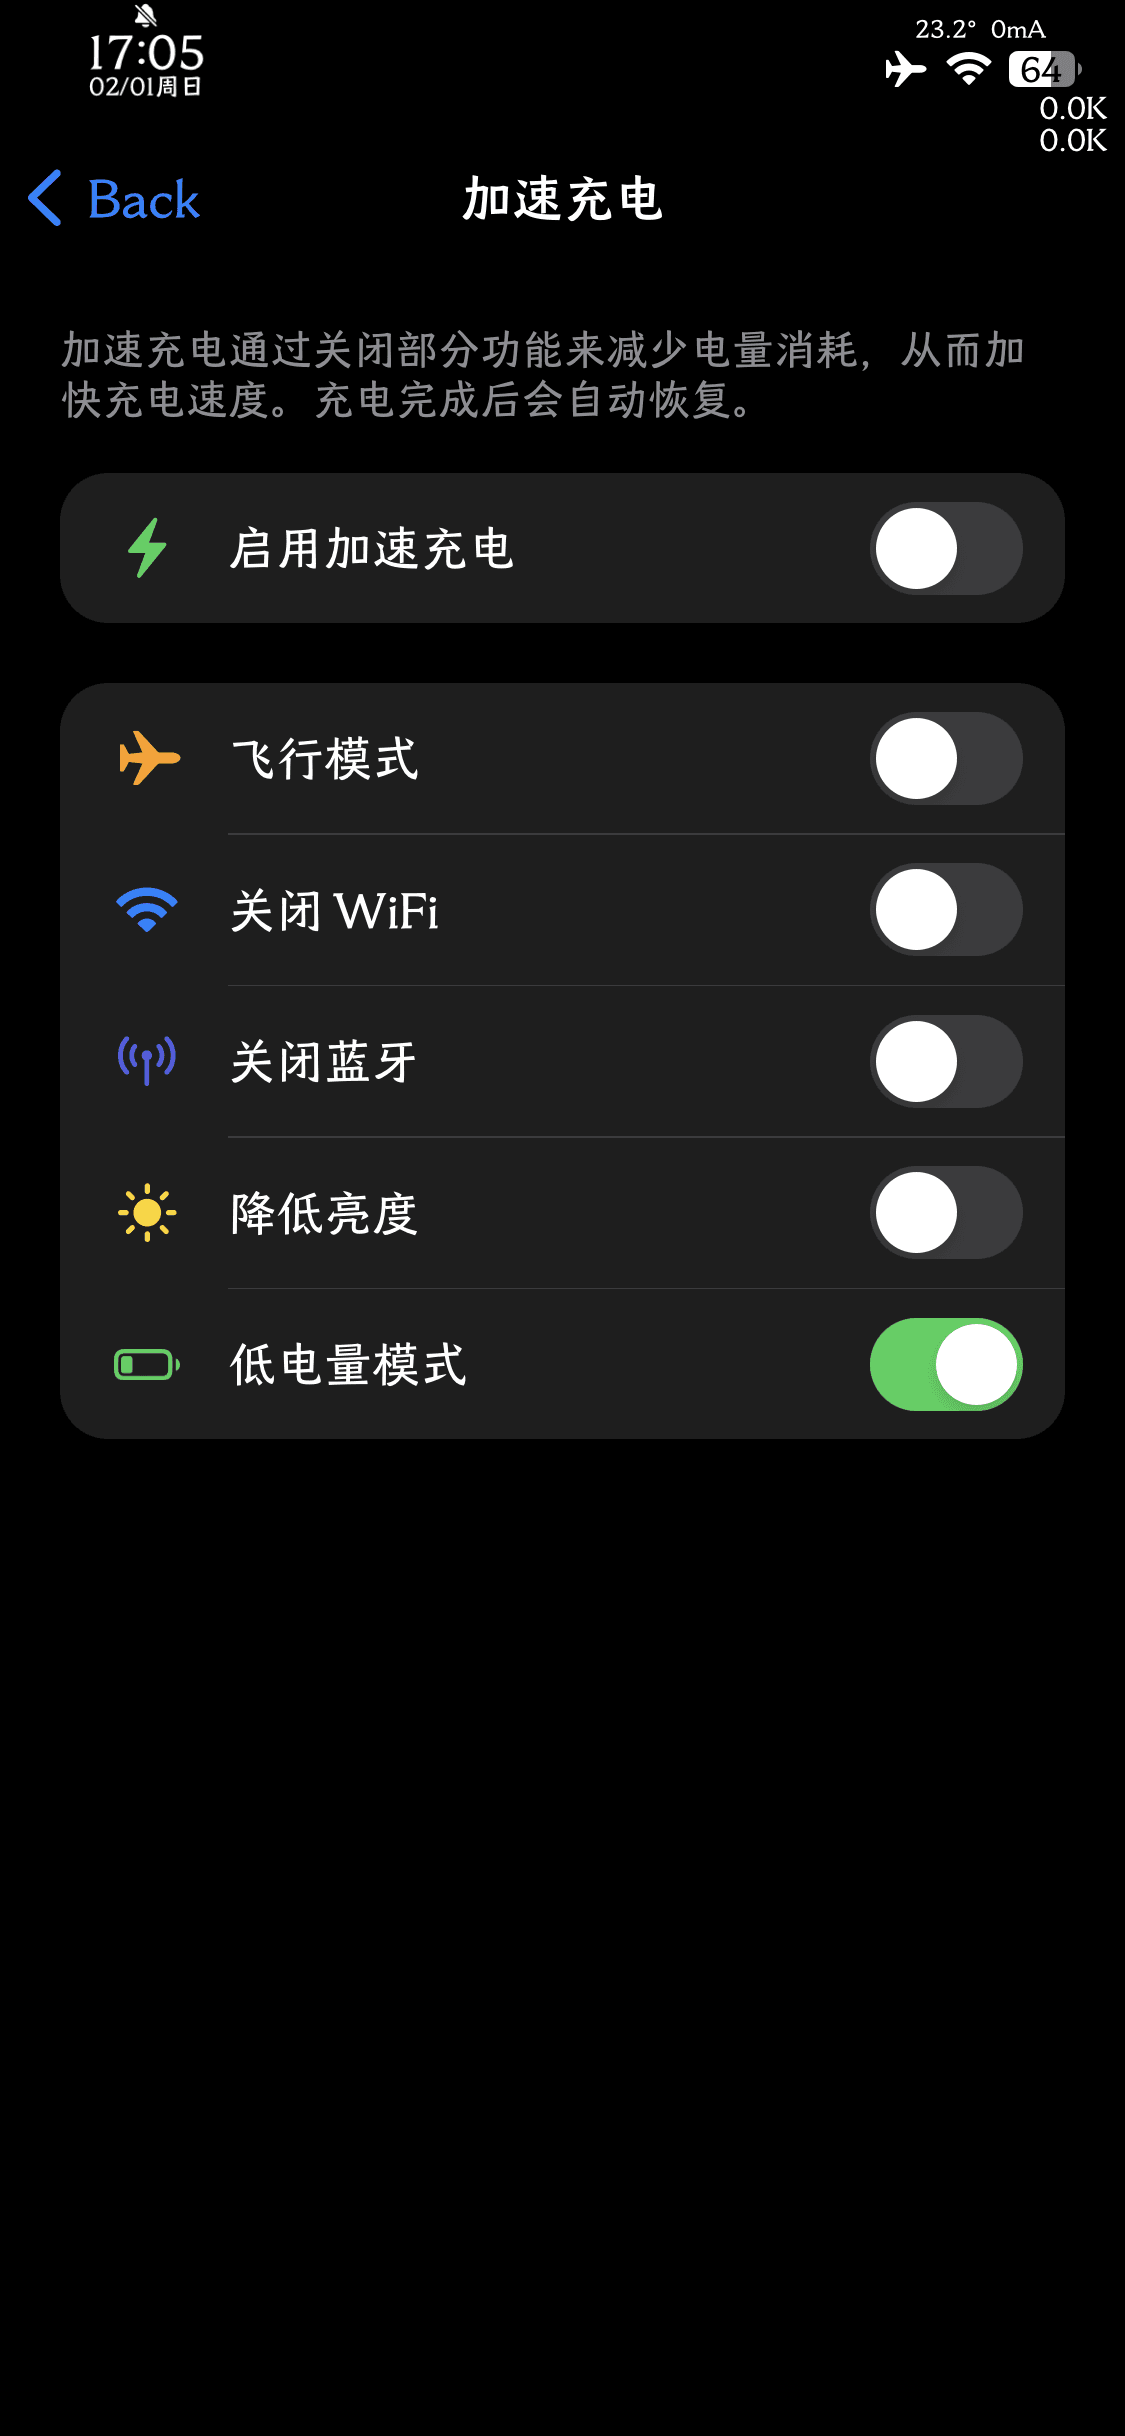
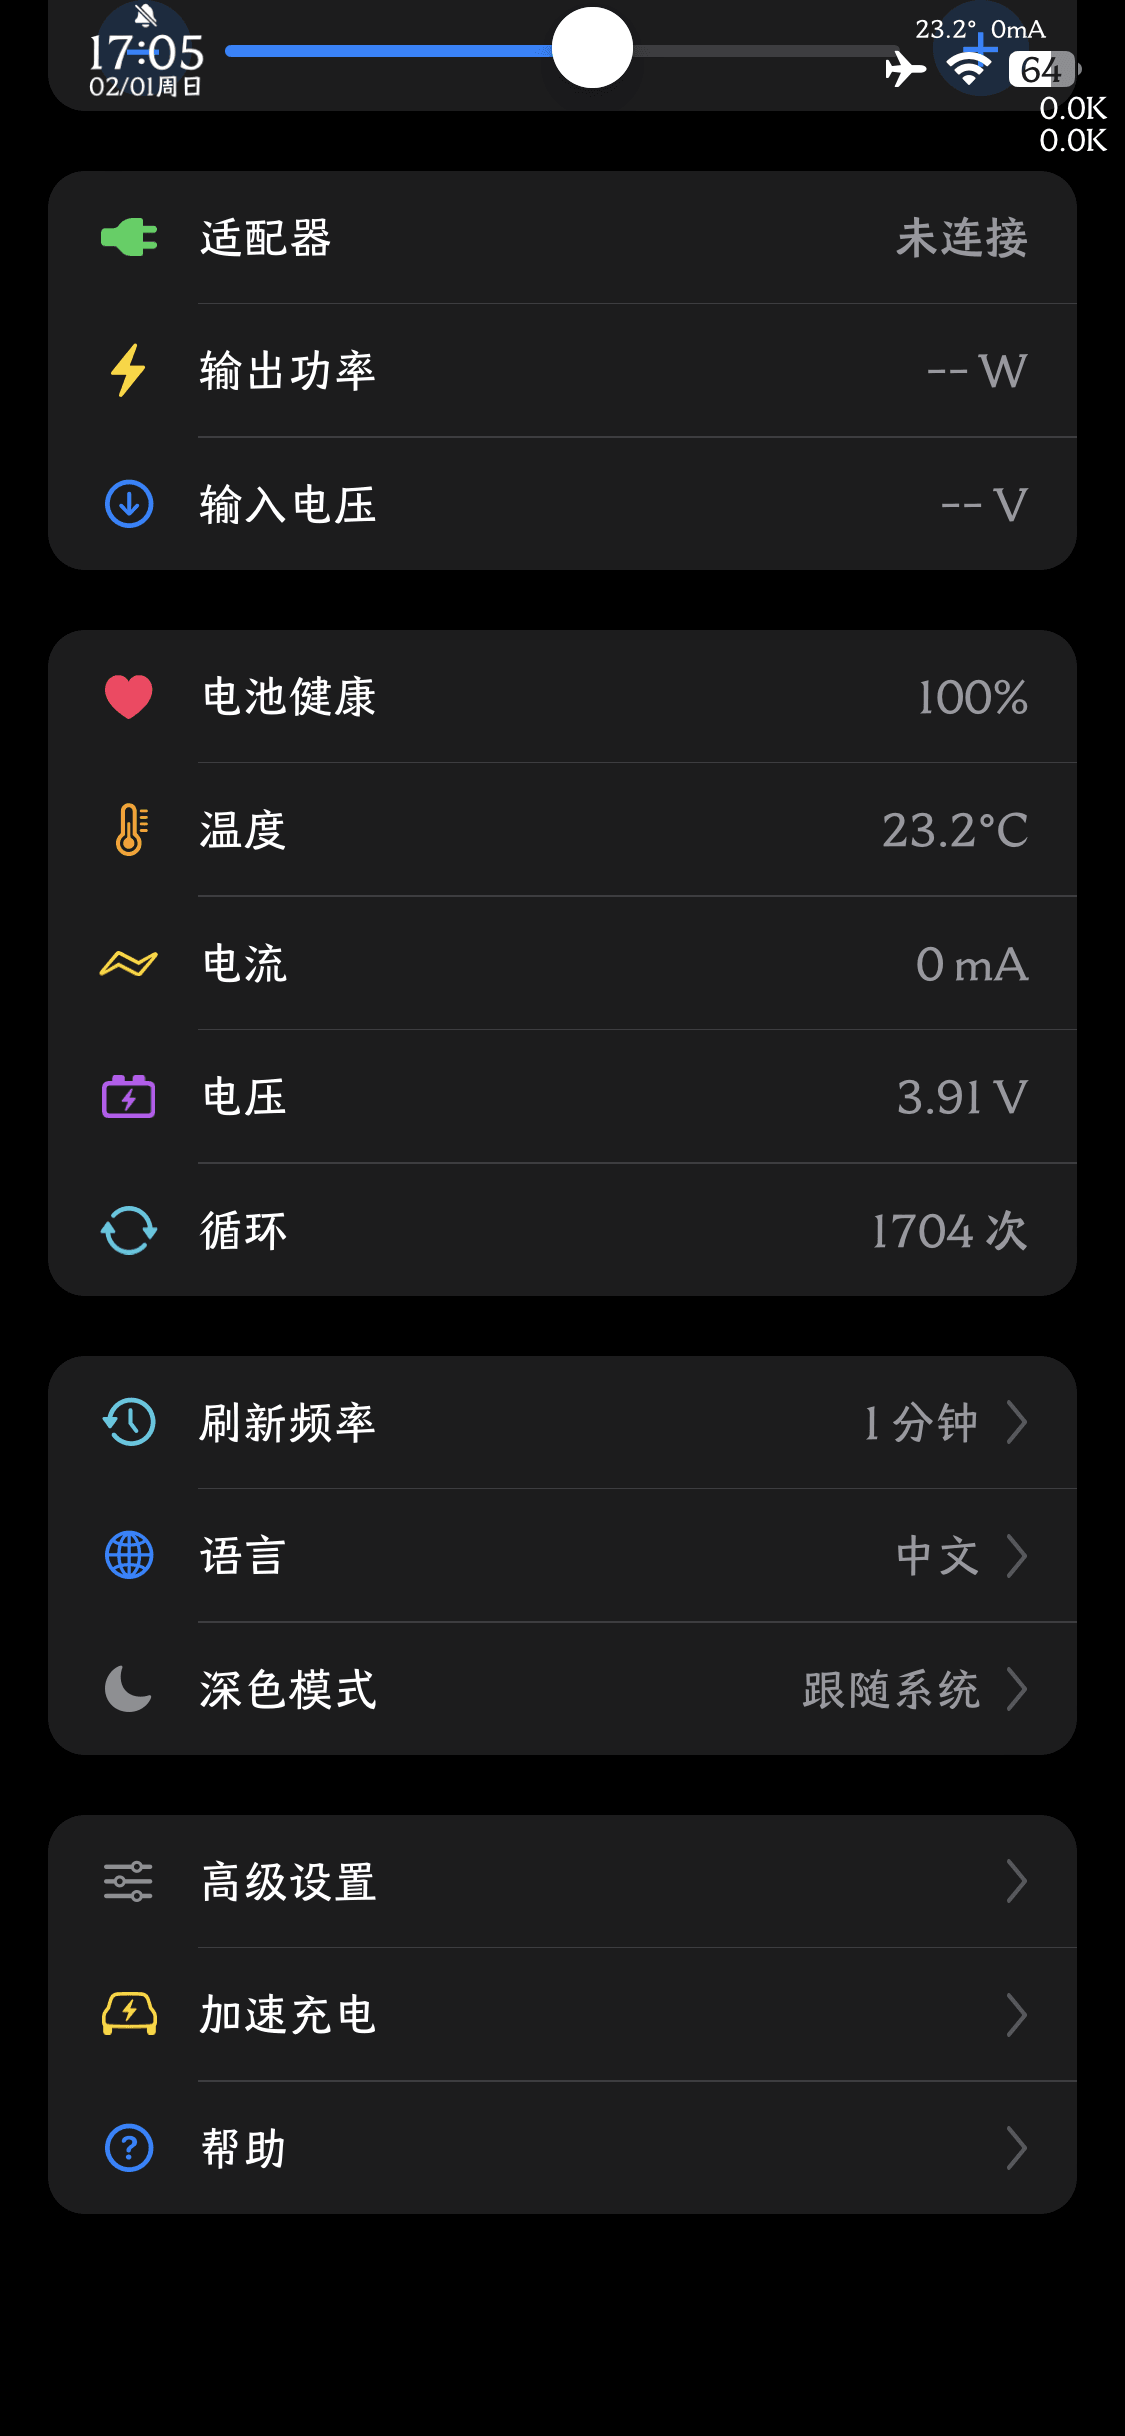
Update

diff --git a/Readme.md b/Readme.md
@@ -8,8 +8,8 @@
 
 
 <p align="center">
-  <img src="https://raw.githubusercontent.com/tunecc/ChargeLimiter/refs/heads/main/screenshots/1.png" width="200" />
-  <img src="https://raw.githubusercontent.com/tunecc/ChargeLimiter/refs/heads/main/screenshots/2.png" width="200" />
-  <img src="https://raw.githubusercontent.com/tunecc/ChargeLimiter/refs/heads/main/screenshots/3.png" width="200" />
-  <img src="https://raw.githubusercontent.com/tunecc/ChargeLimiter/refs/heads/main/screenshots/4.png" width="200" />
+  <img src="https://raw.githubusercontent.com/tunecc/ChargeLimiter/refs/heads/main/screenshots/1.PNG" width="200" />
+  <img src="https://raw.githubusercontent.com/tunecc/ChargeLimiter/refs/heads/main/screenshots/2.PNG" width="200" />
+  <img src="https://raw.githubusercontent.com/tunecc/ChargeLimiter/refs/heads/main/screenshots/3.PNG" width="200" />
+  <img src="https://raw.githubusercontent.com/tunecc/ChargeLimiter/refs/heads/main/screenshots/4.PNG" width="200" />
 </p>
